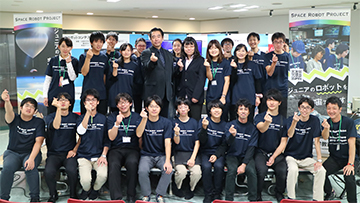
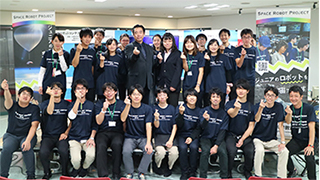
image resize

diff --git a/home.php b/home.php
@@ -97,7 +97,7 @@ get_header('top'); ?>
             <div class="col-sm-6 col-md-4">
                 <a href="https://e-kagaku.com/index/shcool-top/">
                     <div class="box">
-                        <img src="<?php bloginfo('template_url'); ?>/img/toppage/03.png">
+                        <img src="<?php bloginfo('template_url'); ?>/img/toppage/03.jpg">
                         <p>学校・塾関係者の方へ</p>
                     </div>
                 </a>
@@ -105,7 +105,7 @@ get_header('top'); ?>
             <div class="col-sm-6 col-md-4">
                 <a href="http://e-kagaku.com/activities/">
                     <div class="box">
-                        <img src="<?php bloginfo('template_url'); ?>/img/toppage/04.png">
+                        <img src="<?php bloginfo('template_url'); ?>/img/toppage/04.jpg">
                         <p>活動実績</p>
                     </div>
                 </a>
